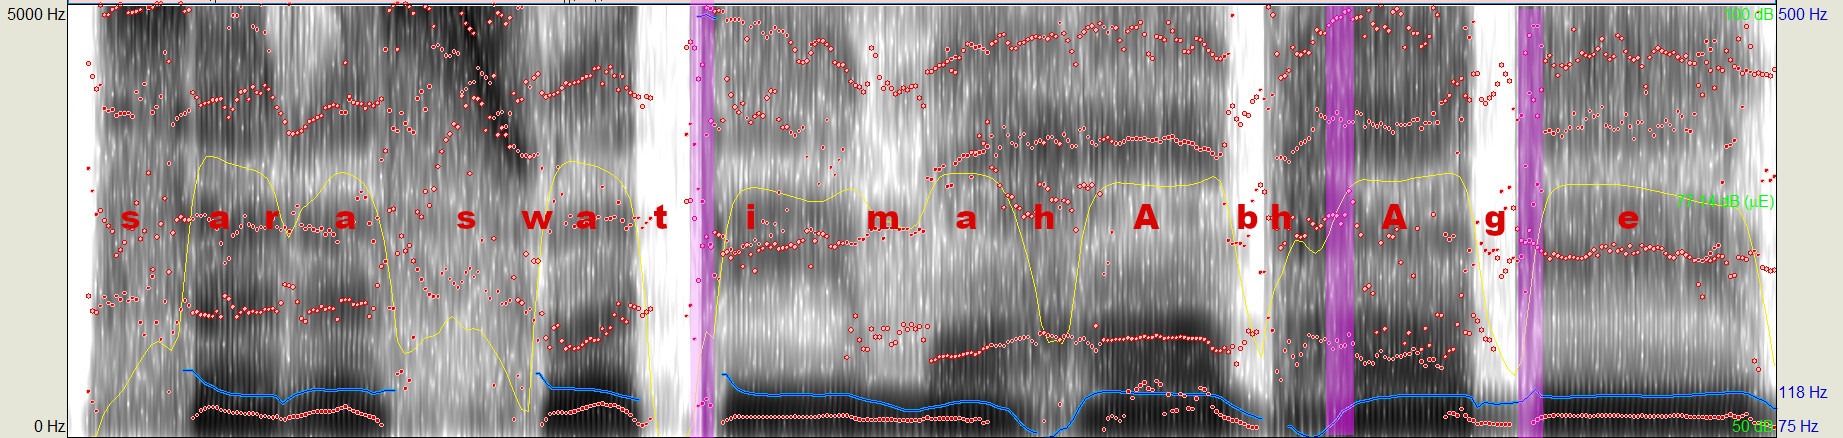
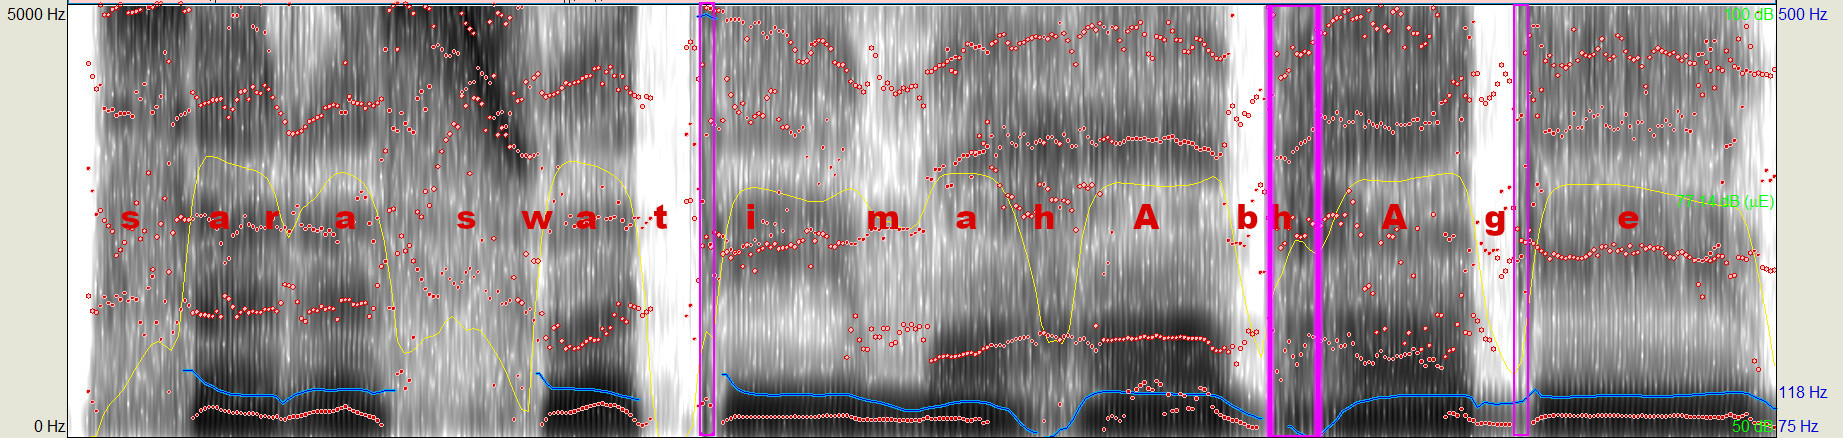
adgadhadhadhadhah

Changed region(s): [[0.6804, 0.0, 0.7423, 1.0], [0.8041, 0.0, 0.8351, 1.0], [0.3711, 0.0, 0.4021, 1.0]]

diff --git a/sanskrit/chanting exercise/mantra chanting/mahAprANa and alpaprANa/mahAprANa and alpaprANa.html b/sanskrit/chanting exercise/mantra chanting/mahAprANa and alpaprANa/mahAprANa and alpaprANa.html
@@ -54,7 +54,9 @@ there is a slight indcrease of pressure after the tonguie while the tongue is st
                 <li>between bh's white bar and A</li>
                 <li>and finally between g and e</li>
             </ol>
-        <img src="prANa-1.jpg" alt="" width="" height="">
+        <img src="prANa-1.jpg" alt="" width="" height=""><br>
+        the hiss sound after b is far longer than the hisssound after t g <br>
+ that is why the hiss after bh is called mahAprANa and the hiss after t g is alpaprANa
  
  
 
